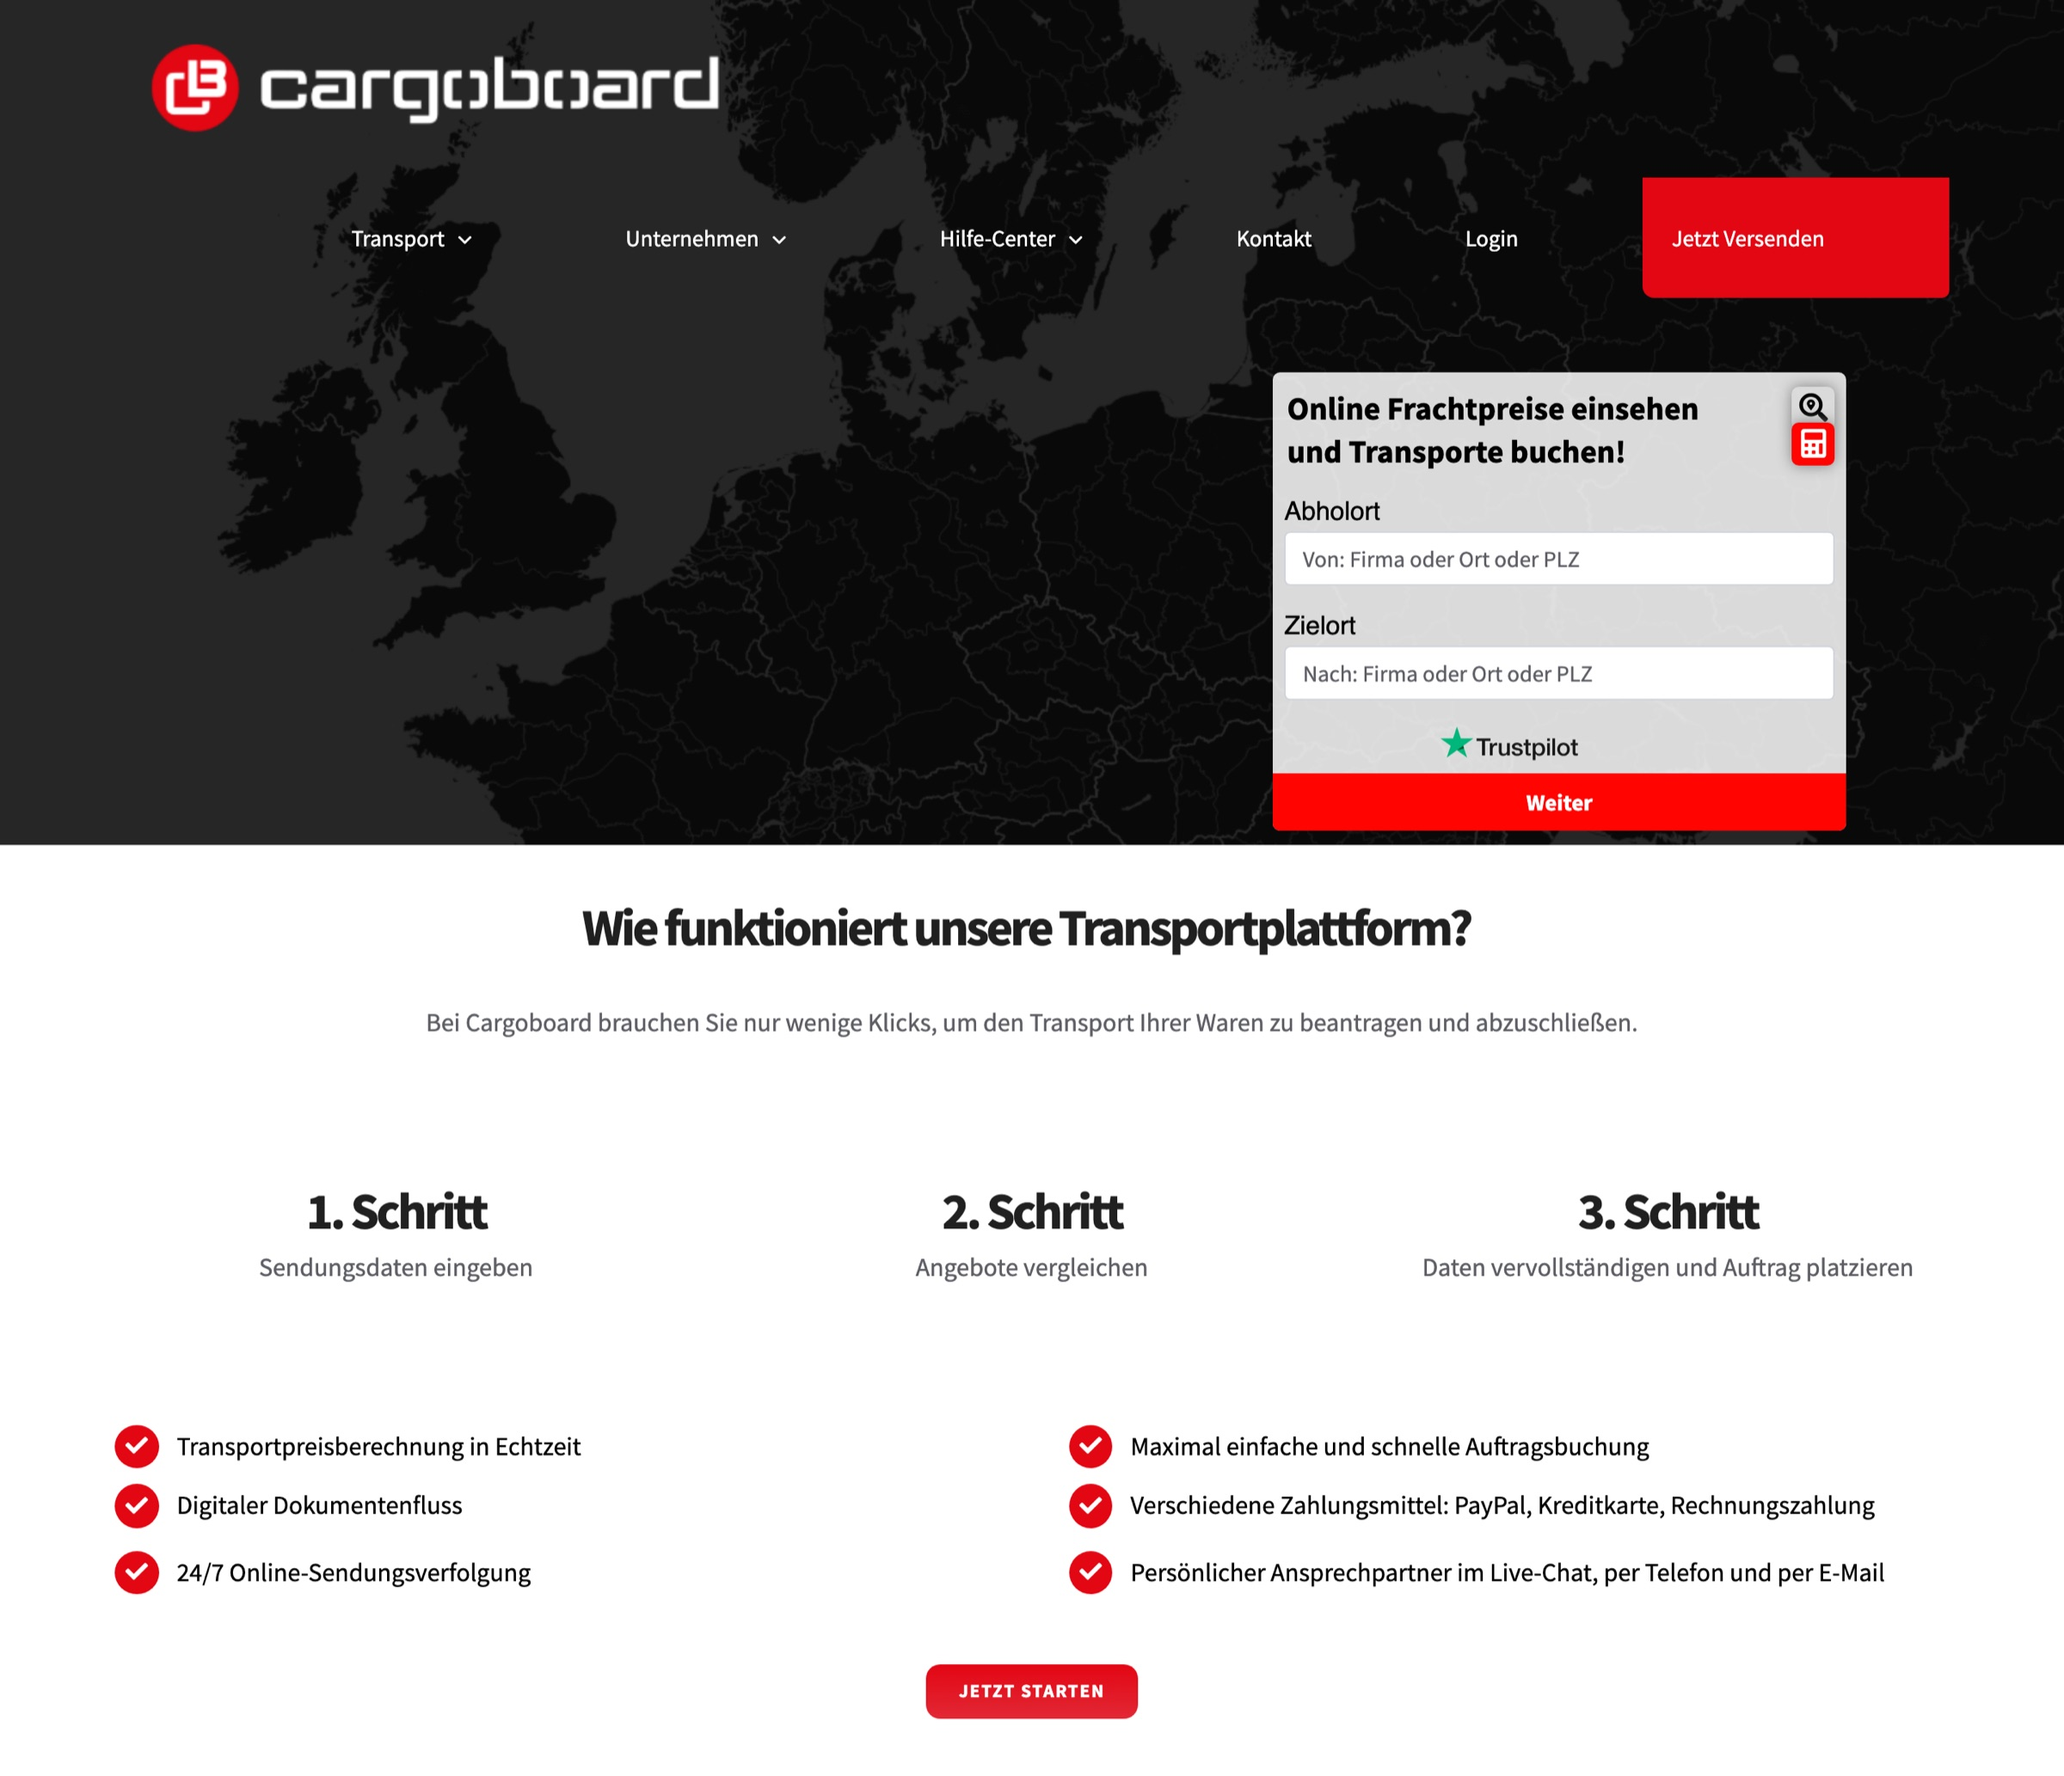
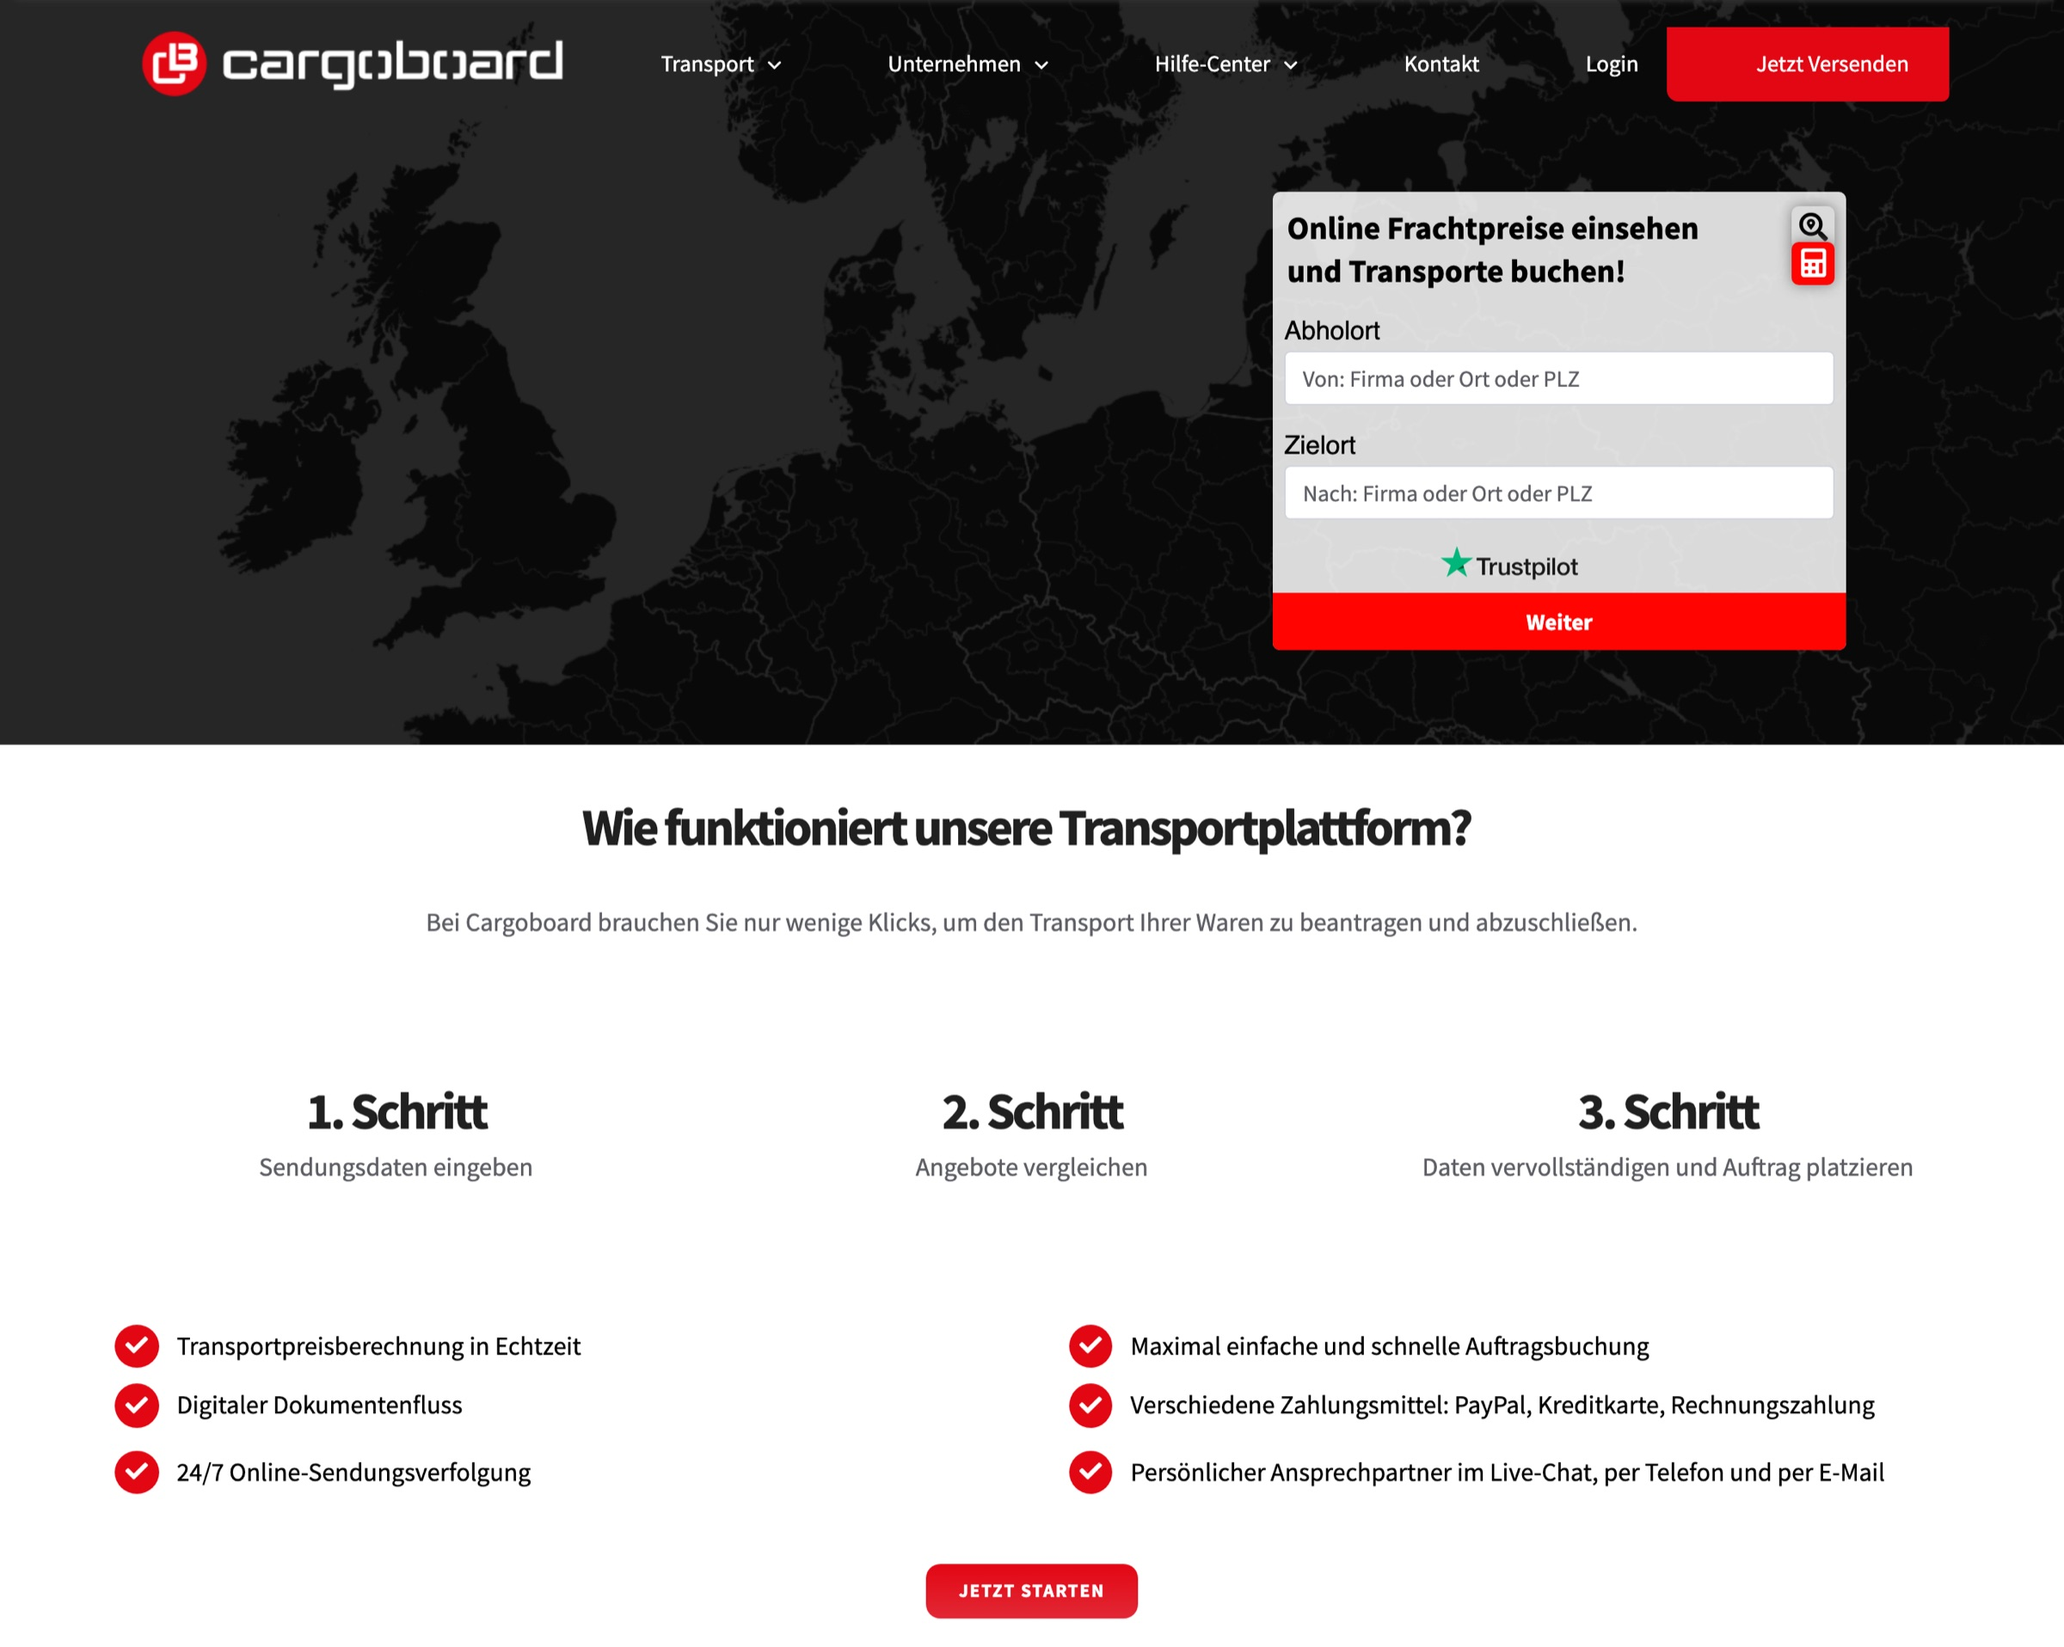
Old Cargoboard homepage: fix the header, raise the calculator; research cover
The archived header had broken out of its row (oversized logo, menu on a
second line). Re-rendered with the logo at header size, the menu next to
it, and the price calculator moved up under the header. The research
culture case gets the focus group photo as its cover for now.

diff --git a/js/data.js b/js/data.js
@@ -184,6 +184,7 @@ window.LV_DATA = {
       ],
       tags: ["Research ops", "Change management", "Behavioral data"],
       coverPaletteHue: 150,
+      coverImage: "images/research-culture/focus-group.jpg",
       tldr: "There was no researcher, no budget, and no shared picture of who our users actually were. Teams optimized in isolation and trusted their gut. So I proposed something small enough that nobody could say no: one research method a month, picked by whatever question was loudest. Year one came in at 1.5× the target, gave the company its first sociodemographic data on its own users, and put the first focus group in 25 years in a room.",
       story: [
         { kind: "section", title: "Situation", body: "Let me paint a picture about where this started: A company with low UX maturity, no regular research, not even heatmaps. Teams working in silos, PMs launching features based on gut feeling, conversion managers shipping design ideas out of the blue, with no shared concept tying any of it together. Don't get me wrong, this is a normal situation for companies with undeveloped understanding of UX. But it leads to a pile of isolated wins that never added up to an experience anyone had designed on purpose. The user experience doesn't feel cohesive across touchpoints in the journey, but successful AB tests may suggest the product is getting more and more successful." },
@@ -345,7 +346,7 @@ window.LV_DATA = {
         { kind: "section", title: "Information architecture", body: "The original navigation hid most of the site. Even Cargoboard's own employees used Google to find their own pages, and operative pages like optional insurance were the hardest to reach. I drew on Nielsen Norman patterns and Information Architecture for the Web and Beyond (Rosenfeld, Morville, Arango, O'Reilly 2015), then worked with the SEO team on a link structure that served both users and search. We tested with a card sort workshop and tree-tested in UXtweak with users recruited from the live site. Both confirmed our direction and surfaced a few wording fixes that shipped into the final IA." },
         { kind: "section", title: "Design and handoff", body: "Design started desktop-first, since roughly 95% of Cargoboard's customers are desktop users. Every desktop wireframe was sketched alongside its mobile equivalent, so mobile shipped on time, on the new system. The product owner wanted to stay on Wordpress and Elementor. I handed off Figma components with usage documentation; our frontend engineer published them as custom Elementor templates so non-designers could self-serve. That pushed the system to be more disciplined: every component had to be reproducible by someone who could not open Figma. Throughout the project I used the customer service team as a proxy for user knowledge I could not generate myself, treating their input as hypothesis rather than evidence so we did not confuse operations opinion with user need." },
         { kind: "figure", hue: 330, src: "images/website-relaunch/old-site-2021.jpg", alt: "The services section of the old cargoboard.de: a heading, a paragraph of copy, and two cards with stock photos of trucks and a shipping container.", caption: "Fig. 2 - Before: the services section of the old cargoboard.de, May 2021. Screenshot from the Internet Archive's Wayback Machine." },
-        { kind: "figure", hue: 330, src: "images/website-relaunch/old-homepage-2021-map.jpg", alt: "The top of the old cargoboard.de homepage on a dark map of Europe, with the red logo, white navigation, a red Jetzt Versenden button, and a booking form with a red Weiter button, above a how-it-works section with red checkmarks and a red Jetzt starten button.", caption: "Fig. 3 - Before: the top of the old homepage and its how-it-works section, May 2021. Red, black, and white throughout. Screenshot from the Internet Archive's Wayback Machine. The dark map behind the booking form doesn't load in the archive, so I re-rendered it in the original style with CARTO map tiles (map data © OpenStreetMap contributors)." },
+        { kind: "figure", hue: 330, src: "images/website-relaunch/old-homepage-2021-map.jpg?v=2", alt: "The top of the old cargoboard.de homepage on a dark map of Europe, with the red logo, white navigation, a red Jetzt Versenden button, and a booking form with a red Weiter button, above a how-it-works section with red checkmarks and a red Jetzt starten button.", caption: "Fig. 3 - Before: the top of the old homepage and its how-it-works section, May 2021. Red, black, and white throughout. Screenshot from the Internet Archive's Wayback Machine. The dark map behind the booking form doesn't load in the archive, so I re-rendered it in the original style with CARTO map tiles (map data © OpenStreetMap contributors)." },
         { kind: "figure", hue: 330, src: "images/website-relaunch/homepage.jpg", alt: "The relaunched cargoboard.com homepage in a browser: the hero with the booking form, the digital-freight section, and the company video.", caption: "Fig. 4 - After: the relaunched homepage. Blue takes over the large surfaces, red stays for the calls to action." },
         { kind: "result", title: "Outcome", body: "Live since January 2023. The design system is in daily use across web, print, and internal docs, and new pages now ship on top of it without a designer in the loop on every one. Treating the system as the lever, not the deliverable, was the bet that paid off: every page since launch has compounded on it, and the brand still feels coherent across surfaces I never touched. Tracking (Hotjar, GA, recordings) went live with the relaunch, and the hypotheses (reduced support tickets about finding pages, internal teams self-serving from the system) became measurable once analytics had a few months of data." },
         { kind: "limitations",

diff --git a/index.html b/index.html
@@ -1755,7 +1755,7 @@
     <p class="wip-note-sign">Lisanne :)</p>
   </aside>
 
-  <script src="js/data.js?v=2026-10-27-32"></script>
+  <script src="js/data.js?v=2026-10-27-40"></script>
   <script src="js/app.js?v=2026-10-27-15"></script>
   <script src="js/wip.js?v=2026-06-12-3"></script>
   <script src="js/wall-of-fame.js?v=2026-08-02-1"></script>
